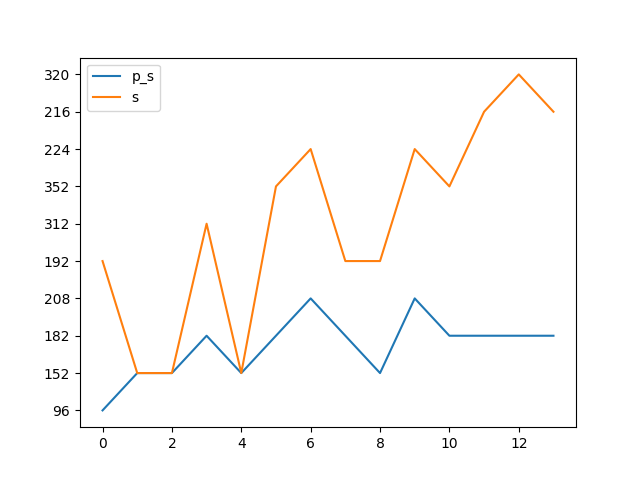
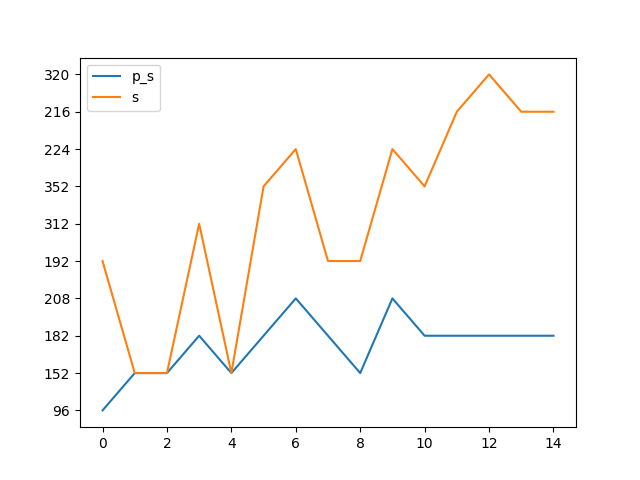
0x000E

diff --git a/benchmark.md b/benchmark.md
@@ -36,3 +36,5 @@ Synthesising 0x000C pexact:182 r=4 exact:320 r=4
 
 Synthesising 0x000D pexact:182 r=4 exact:216 r=3
 
+Synthesising 0x000E pexact:182 r=4 exact:216 r=3
+
